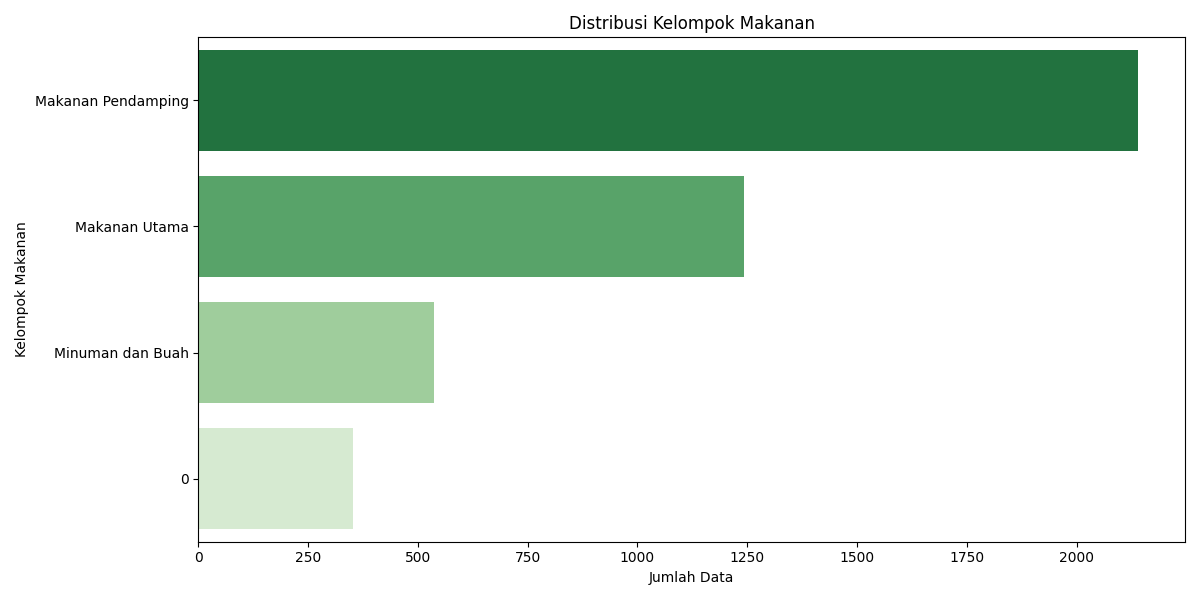
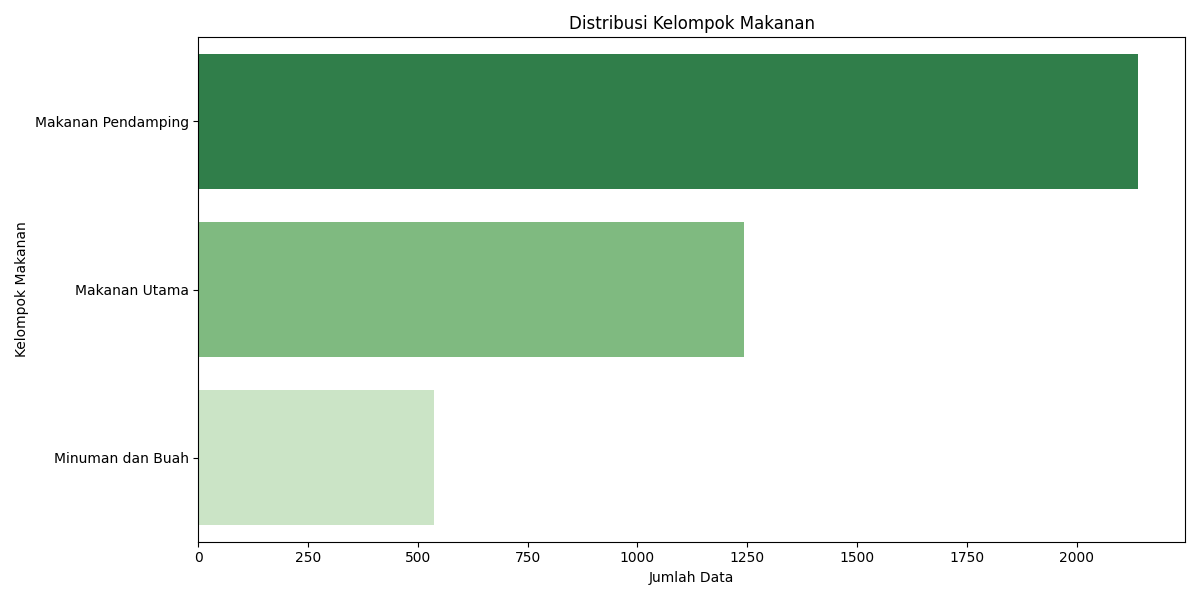
update

diff --git a/web.py b/web.py
@@ -699,31 +699,44 @@ if generate_btn:
         st.header("📈 Evaluasi Meal Plan")
         total_per_hari = meal_plan_df.groupby('Hari')['Energi'].sum()
         target_kalori  = nutrition_req['Energi']
-
         mape_kalori    = (total_per_hari - target_kalori).abs().mean() / target_kalori * 100
-        target_turun   = wlp['total_loss_target']
-        mape_penurunan = abs(prediksi_turun - target_turun) / target_turun * 100
 
-        mape_eval = {}
-        for col, tgt in nutrient_targets.items():
-            if col in daily_nutrient.columns:
-                mape_val       = (daily_nutrient[col] - tgt).abs().mean()
-                mape_eval[col] = round(mape_val / tgt * 100, 1)
-        rata_mape = sum(mape_eval.values()) / len(mape_eval)
-
-        ec1, ec2, ec3 = st.columns(3)
+        ec1, ec2 = st.columns(2)
         ec1.metric("MAPE Kalori", f"{mape_kalori:.1f}%",
                    help="Rata-rata persentase selisih kalori harian vs target")
-        ec2.metric("MAPE Penurunan", f"{mape_penurunan:.2f}%",
-                   help="Persentase selisih prediksi penurunan vs target penurunan")
-        ec3.metric("Rata-rata MAPE Nutrisi", f"{rata_mape:.1f}%",
-                   help="Rata-rata MAPE dari semua nutrisi")
+        ec2.metric("Target Kalori Harian", f"{target_kalori:.0f} kkal")
 
-        st.subheader("MAPE per Nutrisi (% dari Target)")
-        mape_rows = []
-        for col, pct in mape_eval.items():
-            mape_rows.append({"Nutrisi": col, "MAPE (%)": f"{pct:.1f}"})
-        st.dataframe(pd.DataFrame(mape_rows), use_container_width=True, hide_index=True)
+        # Tabel pemenuhan nutrisi per hari (semua nutrisi × 7 hari)
+        st.subheader("Pemenuhan Nutrisi per Hari (%)")
+        all_nutrient_targets = {
+            'Energi'     : nutrition_req['Energi'],
+            'Protein'    : nutrition_req['Protein'],
+            'Lemak'      : nutrition_req['Lemak'],
+            'Karbohidrat': nutrition_req['Karbohidrat'],
+            'Serat'      : nutrition_req['Serat'],
+            'Kalium'     : nutrition_req['Kalium'],
+            'Kalsium'    : nutrition_req['Kalsium'],
+            'Magnesium'  : nutrition_req['Magnesium'],
+            'Besi'       : nutrition_req['Besi'],
+            'VitaminC'   : nutrition_req['VitaminC'],
+            'VitaminD'   : nutrition_req['VitaminD'],
+        }
+        daily_all = meal_plan_df.groupby('Hari')[list(all_nutrient_targets.keys())].sum()
+
+        pemenuhan_data = {}
+        for nutrisi, tgt in all_nutrient_targets.items():
+            pemenuhan_data[nutrisi] = [
+                f"{daily_all.loc[hari, nutrisi] / tgt * 100:.1f}%"
+                if tgt > 0 else "–"
+                for hari in range(1, 8)
+            ]
+
+        df_pemenuhan = pd.DataFrame(
+            pemenuhan_data,
+            index=[f"Hari {i}" for i in range(1, 8)]
+        ).T
+        df_pemenuhan.index.name = "Nutrisi"
+        st.dataframe(df_pemenuhan, use_container_width=True)
 
         # --- TABEL LENGKAP & DOWNLOAD ---
         with st.expander("📋 Tabel Lengkap Meal Plan 7 Hari"):